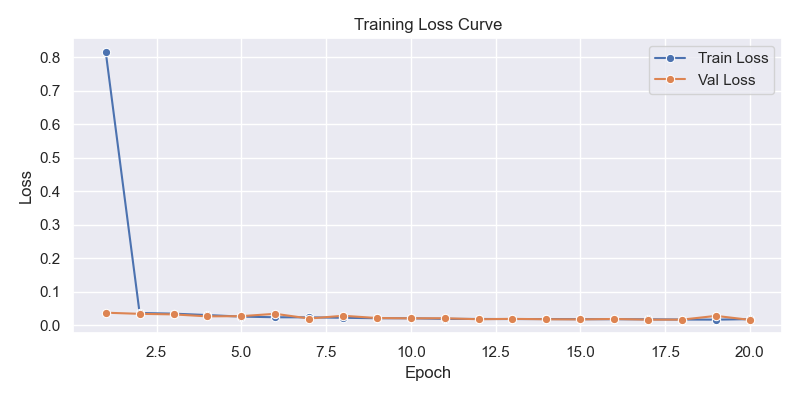
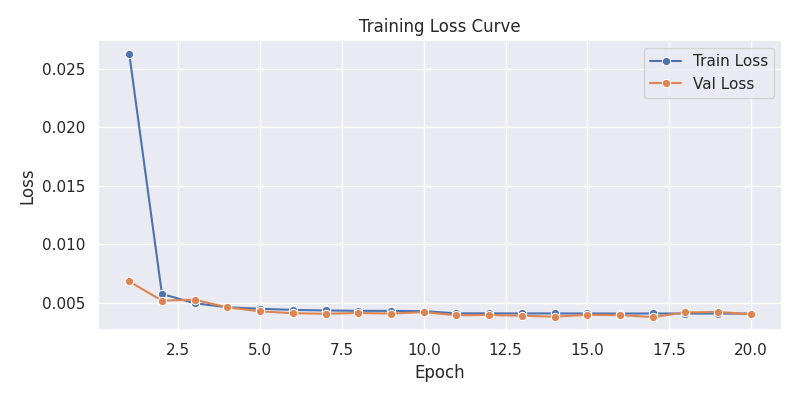
Removed torch.compile

diff --git a/train.py b/train.py
@@ -47,12 +47,12 @@ val_loader = DataLoader(val_dataset, batch_size=BATCH_SIZE, shuffle=False)
 
 match MODEL_TYPE:
     case 'vanilla':
-        model = torch.compile(Vanilla(hidden_dim=HIDDEN_DIM, n_layers=N_LAYERS).to(DEVICE))
+        model = Vanilla(hidden_dim=HIDDEN_DIM, n_layers=N_LAYERS).to(DEVICE)
     case 'chocolate':
-        model = torch.compile(Chocolate(hidden_dim=HIDDEN_DIM, n_layers=N_LAYERS).to(DEVICE))
+        model = Chocolate(hidden_dim=HIDDEN_DIM, n_layers=N_LAYERS).to(DEVICE)
 
     case 'strawberry':
-        model = torch.compile(Strawberry(hidden_dim=HIDDEN_DIM, n_layers=N_LAYERS).to(DEVICE))
+        model = Strawberry(hidden_dim=HIDDEN_DIM, n_layers=N_LAYERS).to(DEVICE)
 
 
 optimizer = torch.optim.Adam(model.parameters(), lr=LR, weight_decay=WEIGHT_DECAY)

diff --git a/config/settings.py b/config/settings.py
@@ -9,7 +9,7 @@ WEIGHT_DECAY = 1e-4 #L2 regularization
 HIDDEN_DIM = 64
 N_LAYERS = 3
 MODEL_TYPE = 'chocolate'  # options: 'vanilla', 'chocolate', 'strawberry'
-AUGMENT_TYPE = 'superfib_end'  # Options: 'none', 'superfib_end', 'superfib_intermediate'.  Type of data augmentation to use during training.
+AUGMENT_TYPE = 'none'  # Options: 'none', 'superfib_end', 'superfib_intermediate'.  Type of data augmentation to use during training.
 N_ROTATIONS_EVALUATION = 10  # Number of rotations to average over during evaluation.
 N_ROTATIONS_TRAIN = 4 #0 means no augmentation
 LAMBDA_CONSISTENCY = 0.1  # Weight for equivariance layerwise consistency loss term during training when using data augmentation.
